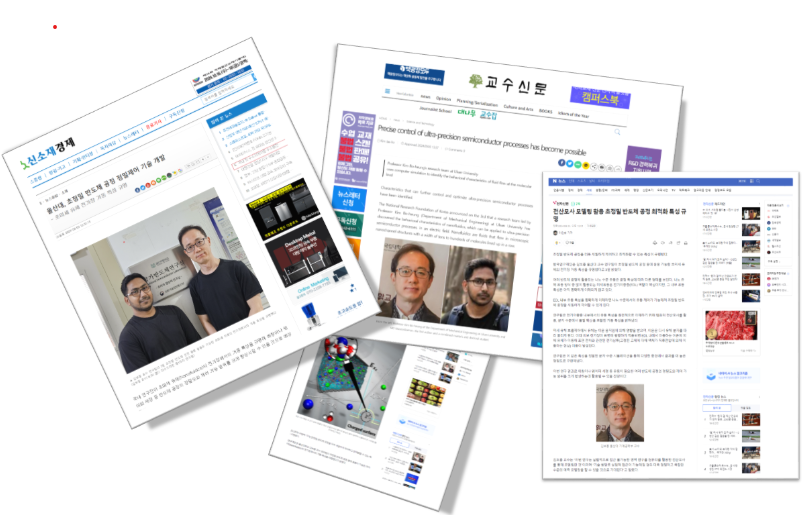
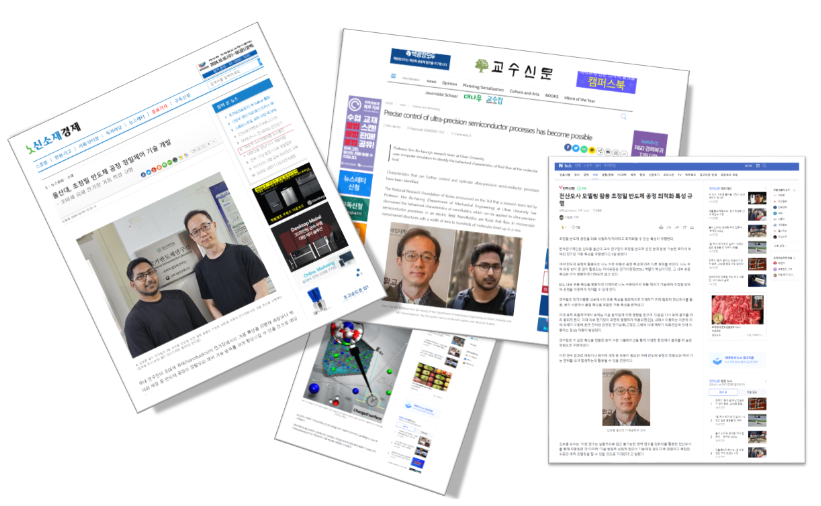
Add files via upload

diff --git a/publications.html b/publications.html
@@ -17,6 +17,7 @@
     <button id="menuBtn" aria-label="Menu">Menu</button>
     <div class="links" id="navLinks">
       <a href="index.html">Home</a>
+      <a href="about.html">About</a>
       <a href="research.html">Research</a>
       <a class="active" href="publications.html">Publications</a>
       <a href="awards.html">Awards</a>
@@ -43,44 +44,45 @@
   <h2>Journal articles</h2>
   <ul class="plain pubs">
     <li><img src="images/paper-8.png" alt="Graphical abstract">
-      <div><span class="authors">Masuduzzaman, Md; Bakli, C.; Barisik, M.; Kim, B. (2025).</span><br>
+      <div><span class="authors">Md Masuduzzaman, Chirodeep Bakli, Murat Barisik, BoHung Kim (2025).</span><br>
       Anomalous Water Flow in Sub-Nanometer Carbon Nanoconfinement. <span class="venue">Small</span> ·
-      <a href="https://onlinelibrary.wiley.com/doi/full/10.1002/smll.202508637">link</a></div></li>
+      <a href="https://onlinelibrary.wiley.com/doi/full/10.1002/smll.202508637">10.1002/smll.202508637</a></div></li>
 
     <li><img src="images/paper-7.png" alt="Graphical abstract">
-      <div><span class="authors">Masuduzzaman, Md; Bakli, C.; Barisik, M.; Kim, B. (2025).</span><br>
-      Redefining flow regimes in sub-nanometer carbon channels under life-scale confinement. <span class="venue">Physics of Fluids</span> ·
-      <a href="https://pubs.aip.org/aip/pof/article-abstract/37/9/092014/3361860/Redefining-flow-regimes-in-sub-nanometer-carbon">10.1063/5.0284134</a></div></li>
+      <div><span class="authors">Md Masuduzzaman, Chirodeep Bakli, Murat Barisik, BoHung Kim (2025).</span><br>
+      Redefining flow regimes in sub-nanometer carbon channels under life-scale confinement. <span class="venue">Physics of Fluids, 37(9), 092014</span> ·
+      <a href="https://pubs.aip.org/aip/pof/article/37/9/092014/3361860">10.1063/5.0284134</a></div></li>
 
     <li><img src="images/paper-5.png" alt="Graphical abstract">
-      <div><span class="authors">Masuduzzaman, Md; Bakli, C.; Barisik, M.; Kim, B. (2024).</span><br>
-      Applied Electric Field Effects on Diffusivity and Electrical Double-Layer Thickness. <span class="venue">Small</span> ·
+      <div><span class="authors">Md Masuduzzaman, Chirodeep Bakli, Murat Barisik, BoHung Kim (2024).</span><br>
+      Applied Electric Field Effects on Diffusivity and Electrical Double-Layer Thickness. <span class="venue">Small, 20(46), 2404397</span> ·
       <a href="https://onlinelibrary.wiley.com/doi/full/10.1002/smll.202404397">10.1002/smll.202404397</a></div></li>
 
     <li><img src="images/paper-4.png" alt="Graphical abstract">
-      <div><span class="authors">Masuduzzaman, Md; Kim, B. (2024).</span><br>
-      Revealing molecular insights into surface charge and local viscosity in electroosmotic flows. <span class="venue">Physics of Fluids</span> ·
-      <a href="https://pubs.aip.org/aip/pof/article/36/6/062003/3295832/Revealing-molecular-insights-into-surface-charge">10.1063/5.0205421</a></div></li>
+      <div><span class="authors">Md Masuduzzaman, BoHung Kim (2024).</span><br>
+      Revealing molecular insights into surface charge and local viscosity in electroosmotic flows. <span class="venue">Physics of Fluids, 36(6), 062003</span> ·
+      <a href="https://pubs.aip.org/aip/pof/article/36/6/062003/3295832">10.1063/5.0205421</a></div></li>
 
     <li><img src="images/paper-6.png" alt="Graphical abstract">
-      <div><span class="authors">Masuduzzaman, Md; Kim, H.; Lee, K.; Kim, B. (2023).</span><br>
+      <div><span class="authors">Md Masuduzzaman, HyeonJun Kim, KeeJoo Lee, BoHung Kim (2023).</span><br>
       Continuum Model Template to Analyze Complex Parameters for Engine Cooling. <span class="venue">Journal of Mechanical Science and Technology</span> ·
       <a href="https://link.springer.com/article/10.1007/s12206-023-1239-2">10.1007/s12206-023-1239-2</a></div></li>
 
     <li><img src="images/paper-3.png" alt="Graphical abstract">
-      <div><span class="authors">Masuduzzaman, Md; Kim, B. (2022).</span><br>
-      Unraveling the Molecular Interface and Boundary Problems in an Electrical Double Layer and Electroosmotic Flow. <span class="venue">Langmuir</span> ·
-      <a href="https://pubs.acs.org/doi/10.1021/acs.langmuir.2c00734">10.1021/acs.langmuir.2c00734</a></div></li>
+      <div><span class="authors">Md Masuduzzaman, BoHung Kim (2022).</span><br>
+      Unraveling the Molecular Interface and Boundary Problems in an Electrical Double Layer and Electroosmotic Flow. <span class="venue">Langmuir, 38(23), 7244–7255</span> ·
+      <a href="https://pubs.acs.org/langd5/article/38/23/7244/469870/Unraveling-the-Molecular-Interface-and-Boundary">10.1021/acs.langmuir.2c00734</a></div></li>
 
     <li><img src="images/paper-2.png" alt="Graphical abstract">
-      <div><span class="authors">Masuduzzaman, Md; Kim, B. (2021).</span><br>
-      Effects of dissimilar molecular interface and ion concentration on wetting characteristics of nanodroplets. <span class="venue">Microfluidics and Nanofluidics</span> ·
-      <a href="https://doi.org/10.1007/s10404-021-02455-6">10.1007/s10404-021-02455-6</a></div></li>
+      <div><span class="authors">Md Masuduzzaman, BoHung Kim (2021).</span><br>
+      Effects of dissimilar molecular interface and ion concentration on wetting characteristics of nanodroplets. <span class="venue">Microfluidics and Nanofluidics, 25, 60</span> ·
+      <a href="https://link.springer.com/article/10.1007/s10404-021-02455-6">10.1007/s10404-021-02455-6</a></div></li>
 
     <li><img src="images/paper-1.png" alt="Graphical abstract">
-      <div><span class="authors">Masuduzzaman, Md; Kim, B. (2020).</span><br>
-      Scale Effects in Nanoscale Heat Transfer for Fourier's Law in a Dissimilar Molecular Interface. <span class="venue">ACS Omega</span> ·
-      <a href="https://pubs.acs.org/doi/abs/10.1021/acsomega.0c03241">5(41), 26527–26536</a></div></li>
+      <div><span class="authors">Md Masuduzzaman, BoHung Kim (2020).</span><br>
+      Scale Effects in Nanoscale Heat Transfer for Fourier's Law in a Dissimilar Molecular Interface. <span class="venue">ACS Omega, 5(41), 26527–26536</span> ·
+      <a href="https://pmc.ncbi.nlm.nih.gov/articles/PMC7581236/">10.1021/acsomega.0c03241</a></div></li>
+
   </ul>
 
   <h2>Patents</h2>
@@ -88,8 +90,7 @@
     <li><img src="images/patent.png" alt="Patent drawing">
       <div><a href="https://patents.google.com/patent/US20260068576A1/en">Method and apparatus for nanofluid wet cleansing wafer</a> (2026). US Patent App. 18/981,940.<br>
       <span class="authors">Inventors: BoHung Kim, Md Masuduzzaman. Co-inventors: Jaber Al Hossain, Kazi Ehsanul Karim, Seong-min Lee, Jun-sik Woo. Assignee: University of Ulsan Foundation for Industry Cooperation.</span></div></li>
-    <li><div>Nanofluid wet cleansing method for wafer and cleansing device applying the same (2024). <a href="https://doi.org/10.8080/1020240118705">10.8080/1020240118705</a><br>
-      <span class="authors">Inventors: BoHung Kim, Md Masuduzzaman. Co-inventors: Jaber Al Hossain, Kazi Ehsanul Karim, Seong-min Lee, Jun-sik Woo. Assignee: University of Ulsan Foundation for Industry Cooperation.</span></div></li>
+    <li><div>Nanofluid wet cleansing method for wafer and cleansing device applying the same (2024). <a href="https://doi.org/10.8080/1020240118705">10.8080/1020240118705</a></div></li>
   </ul>
 
   <h2>Conference papers</h2>

diff --git a/research.html b/research.html
@@ -3,7 +3,7 @@
 <head>
 <meta charset="utf-8">
 <meta name="viewport" content="width=device-width, initial-scale=1">
-<title>Research &amp; Experience — Md Masuduzzaman</title>
+<title>Research — Md Masuduzzaman</title>
 <link rel="preconnect" href="https://fonts.googleapis.com">
 <link rel="preconnect" href="https://fonts.gstatic.com" crossorigin>
 <link href="https://fonts.googleapis.com/css2?family=IBM+Plex+Mono:wght@400;500&family=IBM+Plex+Sans:wght@400;500;600&family=IBM+Plex+Serif:wght@400;500;600&display=swap" rel="stylesheet">
@@ -17,6 +17,7 @@
     <button id="menuBtn" aria-label="Menu">Menu</button>
     <div class="links" id="navLinks">
       <a href="index.html">Home</a>
+      <a href="about.html">About</a>
       <a class="active" href="research.html">Research</a>
       <a href="publications.html">Publications</a>
       <a href="awards.html">Awards</a>
@@ -28,51 +29,27 @@
 </header>
 
 <main>
-  <div class="profile">
-    <img src="images/portrait.jpg" alt="Md Masuduzzaman">
-    <div>
-      <h1>Md Masuduzzaman</h1>
-
-      <div class="grp">
-        <p class="label">Current Position</p>
-        <p><b>Postdoctoral Research Associate</b>, University of Tennessee at Chattanooga (2026 – Present)</p>
-        <p>Nanoengineering Research Center, UTC Research Institute</p>
-        <p>Mechanical Engineering</p>
-      </div>
-
-      <div class="grp">
-        <p class="label">Previous Appointments</p>
-        <p><b>Postdoctoral Associate</b>, Cornell University (2025 – 2026)</p>
-        <p>Robert F. Smith School of Chemical and Biomolecular Engineering</p>
-        <p><b>Graduate Research Assistant</b>, University of Ulsan (2018 – 2025)</p>
-        <p>Micro- and Nano-scale Thermal Fluid Lab, Mechanical and Automotive Engineering · Advisor: BoHung Kim</p>
-      </div>
-
-      <div class="grp">
-        <p class="label">Education</p>
-        <p><b>Ph.D.</b> University of Ulsan (2018 – 2025)</p>
-        <p>· Mechanical &amp; Automotive Engineering, GPA: 4.32 / 4.50</p>
-        <p><b>B.Sc.</b> Chittagong University of Engineering and Technology (2012 – 2016)</p>
-        <p>· Mechanical Engineering</p>
-      </div>
-
-      <div class="grp">
-        <p class="label">Selected Awards</p>
-        <p>· <b>Best Oral Presentation Award</b>, International Joint Seminar on Mechanical Engineering, Kyushu Institute of Technology (2022)</p>
-        <p>· <b>Dr. Fatema Rashid Best Paper Award, 1st Prize</b>, 25th ICCIT, Bangladesh (2022)</p>
-        <p>· <b>AF-1 Scholarship</b>, University of Ulsan, Republic of Korea (2018 – 2025)</p>
-        <p>· <b>Bangladesh Government Technical Scholarship</b> (2013 – 2017)</p>
-      </div>
-
-      <div class="grp">
-        <p class="label">Journal Peer Reviewer</p>
-        <p>Physics of Fluids (AIP) · Applied Physics Letters (AIP) · Journal of Applied Physics (AIP) · Processes (MDPI) · Powders (MDPI)</p>
-      </div>
-    </div>
+  <div class="page-head">
+    <p class="eyebrow">Research</p>
+    <h1>Molecular transport where continuum theory breaks down</h1>
+    <p class="lede">Molecular-scale transport phenomena in nanoconfined and electrochemical systems, integrating molecular dynamics simulations, machine learning potentials, and continuum modeling — ion and solvent transport under sub-nanometer confinement, electric double layer physics, electrokinetic processes, and nanoscale heat and mass transfer. The goal is predictive multi-scale frameworks that bridge atomistic mechanisms with continuum theory, enabling advances in semiconductor manufacturing, catalytic interfaces, energy conversion, and next-generation microfluidic technologies.</p>
   </div>
 
-  <h2>Research focus</h2>
-  <p class="lede">Molecular-scale transport phenomena in nanoconfined and electrochemical systems, integrating molecular dynamics simulations, machine learning potentials, and continuum modeling — ion and solvent transport under sub-nanometer confinement, electric double layer physics, electrokinetic processes, and nanoscale heat and mass transfer.</p>
+  <h2>Research themes</h2>
+  <div class="cards">
+    <div class="card">
+      <h4>Electrokinetics &amp; electric double layers</h4>
+      <p>Molecular simulation of electroosmotic transport in sub-1 nm channels, and how ion concentration, surface charge, and confinement reshape flow and local viscosity.</p>
+    </div>
+    <div class="card">
+      <h4>Flow under extreme confinement</h4>
+      <p>Anomalous water transport in sub-nanometer carbon nanoconfinement, and the redefinition of flow regimes where classical hydrodynamics no longer applies.</p>
+    </div>
+    <div class="card">
+      <h4>Interfacial heat transfer</h4>
+      <p>Non-equilibrium molecular dynamics of dissimilar molecular interfaces — where Fourier's law holds, where it breaks, and what sets thermal resistance at the atomic scale.</p>
+    </div>
+  </div>
 
   <h2>Research contributions</h2>
   <ul class="bul">

diff --git a/about.html b/about.html
@@ -1,0 +1,92 @@
+<!DOCTYPE html>
+<html lang="en">
+<head>
+<meta charset="utf-8">
+<meta name="viewport" content="width=device-width, initial-scale=1">
+<title>About — Md Masuduzzaman</title>
+<link rel="preconnect" href="https://fonts.googleapis.com">
+<link rel="preconnect" href="https://fonts.gstatic.com" crossorigin>
+<link href="https://fonts.googleapis.com/css2?family=IBM+Plex+Mono:wght@400;500&family=IBM+Plex+Sans:wght@400;500;600&family=IBM+Plex+Serif:wght@400;500;600&display=swap" rel="stylesheet">
+<link rel="stylesheet" href="assets/style.css">
+</head>
+<body>
+
+<header class="top">
+  <nav>
+    <a class="brand" href="index.html">MTP<span>Multiscale Transport Physics</span></a>
+    <button id="menuBtn" aria-label="Menu">Menu</button>
+    <div class="links" id="navLinks">
+      <a href="index.html">Home</a>
+      <a class="active" href="about.html">About</a>
+      <a href="research.html">Research</a>
+      <a href="publications.html">Publications</a>
+      <a href="awards.html">Awards</a>
+      <a href="news.html">News</a>
+      <a href="gallery.html">Gallery</a>
+      <a href="contact.html">Contact</a>
+    </div>
+  </nav>
+</header>
+
+<main>
+  <div class="profile">
+    <img src="images/portrait.jpg" alt="Md Masuduzzaman">
+    <div>
+      <h1>Md Masuduzzaman</h1>
+
+      <div class="grp">
+        <p class="label">Current Position</p>
+        <p><b>Postdoctoral Research Associate</b>, University of Tennessee at Chattanooga (2026 – Present)</p>
+        <p>Nanoengineering Research Center, UTC Research Institute</p>
+        <p>Mechanical Engineering</p>
+      </div>
+
+      <div class="grp">
+        <p class="label">Previous Appointments</p>
+        <p><b>Postdoctoral Associate</b>, Cornell University (2025 – 2026)</p>
+        <p>Robert F. Smith School of Chemical and Biomolecular Engineering</p>
+        <p><b>Graduate Research Assistant</b>, University of Ulsan (2018 – 2025)</p>
+        <p>Micro- and Nano-scale Thermal Fluid Lab, Mechanical and Automotive Engineering · Advisor: BoHung Kim</p>
+      </div>
+
+      <div class="grp">
+        <p class="label">Education</p>
+        <p><b>Ph.D.</b> University of Ulsan (2018 – 2025)</p>
+        <p>· Mechanical &amp; Automotive Engineering, GPA: 4.32 / 4.50</p>
+        <p><b>B.Sc.</b> Chittagong University of Engineering and Technology (2012 – 2016)</p>
+        <p>· Mechanical Engineering</p>
+      </div>
+
+      <div class="grp">
+        <p class="label">Selected Awards</p>
+        <p>· <b>Best Oral Presentation Award</b>, International Joint Seminar on Mechanical Engineering, Kyushu Institute of Technology (2022)</p>
+        <p>· <b>Dr. Fatema Rashid Best Paper Award, 1st Prize</b>, 25th ICCIT, Bangladesh (2022)</p>
+        <p>· <b>AF-1 Scholarship</b>, University of Ulsan, Republic of Korea (2018 – 2025)</p>
+        <p>· <b>Bangladesh Government Technical Scholarship</b> (2013 – 2017)</p>
+      </div>
+
+      <div class="grp">
+        <p class="label">Journal Peer Reviewer</p>
+        <p>Physics of Fluids (AIP) · Applied Physics Letters (AIP) · Journal of Applied Physics (AIP) · Processes (MDPI) · Powders (MDPI)</p>
+      </div>
+    </div>
+  </div>
+
+  <h2>Research interests</h2>
+  <p>Molecular-scale transport phenomena in nanoconfined and electrochemical systems, integrating molecular dynamics simulations, machine learning potentials, and continuum modeling. Emphasis is placed on ion and solvent transport under sub-nanometer confinement, electric double layer physics, electrokinetic processes, and nanoscale heat and mass transfer. See <a href="research.html">Research</a> for details.</p>
+
+</main>
+
+<footer>
+  <div class="fwrap">
+    <span>© <span class="yr"></span> Multiscale Transport Physics</span>
+    <a href="mailto:md-masuduzzaman@utc.edu">Email</a>
+    <a href="https://scholar.google.com/citations?user=24VWKvkAAAAJ&hl=en">Google Scholar</a>
+    <a href="https://orcid.org/0000-0002-1301-1601">ORCID</a>
+    <a href="#">Top</a>
+  </div>
+</footer>
+
+<script src="assets/site.js"></script>
+</body>
+</html>

diff --git a/assets/style.css b/assets/style.css
@@ -157,12 +157,15 @@ footer a{color:var(--muted)}
 footer a:hover{color:var(--navy)}
 
 /* ================= journal logo strip ================= */
-.logos{display:grid;grid-template-columns:repeat(auto-fit,minmax(150px,1fr));
-  gap:26px 34px;align-items:center;justify-items:center;margin:6px 0 34px}
-.logos a{display:flex;align-items:center;justify-content:center;height:66px;width:100%;
-  filter:grayscale(1);opacity:.72;transition:filter .2s ease,opacity .2s ease}
-.logos a:hover{filter:none;opacity:1;text-decoration:none}
-.logos img{max-height:56px;width:auto;object-fit:contain}
+.logos{display:grid;grid-template-columns:repeat(5,1fr);gap:22px 30px;
+  align-items:center;justify-items:center;margin:10px auto 30px;max-width:900px}
+.logos a{display:flex;align-items:center;justify-content:center;height:62px;width:100%;
+  transition:transform .18s ease}
+.logos a:hover{transform:scale(1.06);text-decoration:none}
+.logos img{max-height:50px;max-width:100%;width:auto;object-fit:contain}
+@media(max-width:860px){.logos{grid-template-columns:repeat(3,1fr)}}
+@media(max-width:520px){.logos{grid-template-columns:repeat(2,1fr)}
+  .logos a{height:52px}.logos img{max-height:42px}}
 .center-block{text-align:center}
 .center-block h1,.center-block h2{text-align:center}
 .center-block h2::after{margin-left:auto;margin-right:auto}

diff --git a/news.html b/news.html
@@ -17,6 +17,7 @@
     <button id="menuBtn" aria-label="Menu">Menu</button>
     <div class="links" id="navLinks">
       <a href="index.html">Home</a>
+      <a href="about.html">About</a>
       <a href="research.html">Research</a>
       <a href="publications.html">Publications</a>
       <a href="awards.html">Awards</a>
@@ -44,7 +45,9 @@
   </ul>
 
   <h3>Press coverage</h3>
-  <img class="wide" src="images/media.png" alt="Press coverage clippings" style="margin-bottom:22px">
+  <div style="text-align:center;margin:0 0 26px">
+    <img class="wide" src="images/media.png" alt="Press coverage clippings" style="max-width:760px;margin:0 auto">
+  </div>
   <p class="sub">National Research Foundation of Korea press release on <a href="https://doi.org/10.1002/smll.202404397">Applied Electric Field Effects on Diffusivity and Electrical Double-Layer Thickness</a>.</p>
   <ul class="plain news">
     <li><span class="date">Sep 3, 2024</span><span><a href="http://www.kyosu.net/news/articleView.html?idxno=124196">Kyosu Sinmun</a> and <a href="https://amenews.kr/news/view.php?idx=58742">AME News</a> — University of Ulsan: precise control and optimization of ultra-precision semiconductor process characteristics.</span></li>

diff --git a/index.html b/index.html
@@ -18,6 +18,7 @@
     <button id="menuBtn" aria-label="Menu">Menu</button>
     <div class="links" id="navLinks">
       <a class="active" href="index.html">Home</a>
+      <a href="about.html">About</a>
       <a href="research.html">Research</a>
       <a href="publications.html">Publications</a>
       <a href="awards.html">Awards</a>
@@ -54,6 +55,7 @@
       <p>Non-equilibrium molecular dynamics of dissimilar molecular interfaces — where Fourier's law holds, where it breaks, and what sets thermal resistance at the atomic scale.</p>
     </div>
   </div>
+  <p style="margin-top:16px"><a href="research.html">More on the research →</a></p>
 
   <h2>Featured on the cover of <em>Small</em></h2>
   <div class="cards">

diff --git a/awards.html b/awards.html
@@ -17,6 +17,7 @@
     <button id="menuBtn" aria-label="Menu">Menu</button>
     <div class="links" id="navLinks">
       <a href="index.html">Home</a>
+      <a href="about.html">About</a>
       <a href="research.html">Research</a>
       <a href="publications.html">Publications</a>
       <a class="active" href="awards.html">Awards</a>

diff --git a/contact.html b/contact.html
@@ -17,6 +17,7 @@
     <button id="menuBtn" aria-label="Menu">Menu</button>
     <div class="links" id="navLinks">
       <a href="index.html">Home</a>
+      <a href="about.html">About</a>
       <a href="research.html">Research</a>
       <a href="publications.html">Publications</a>
       <a href="awards.html">Awards</a>

diff --git a/gallery.html b/gallery.html
@@ -17,6 +17,7 @@
     <button id="menuBtn" aria-label="Menu">Menu</button>
     <div class="links" id="navLinks">
       <a href="index.html">Home</a>
+      <a href="about.html">About</a>
       <a href="research.html">Research</a>
       <a href="publications.html">Publications</a>
       <a href="awards.html">Awards</a>
